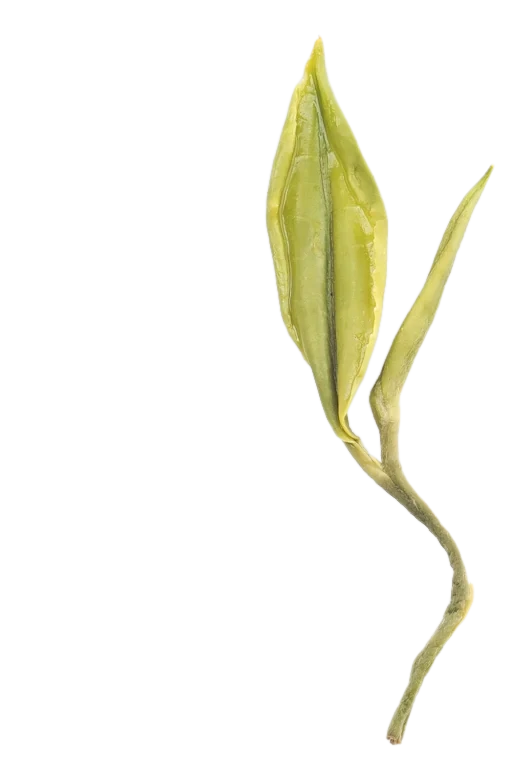
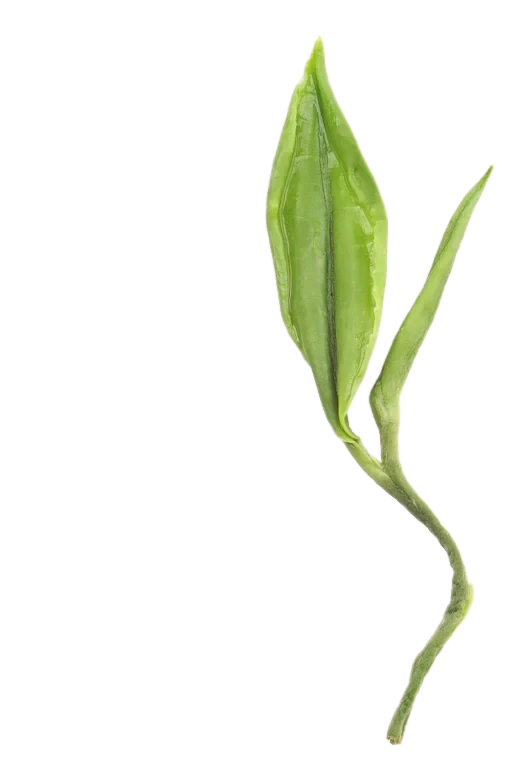
Sejak leaves graded to natural green; steeper glass re-rendered at 2x
The steeped-leaf shots (PDP gallery, shop shelf, collection single)
shift from washed yellow-chartreuse to natural olive green: yellow
band hue-rotated toward green, highlights pulled down, speculars
softened, weighted so stems and paper stay put. THE GLASS is re-cut
from a 2x upscaled source (666x886, was 332x442) so the stage stops
upscaling it. Changed gear images renamed (steeper-vessel,
steeper-filter-detail) to defeat stale browser caches.

diff --git a/koyo-site/gear/simple-steeper.html b/koyo-site/gear/simple-steeper.html
@@ -103,11 +103,11 @@
             <button class="tea-thumb is-active" data-src="../assets/img/gear/steeper-liquor.webp">
               <img src="../assets/img/gear/steeper-liquor.webp" alt="" loading="lazy" /><span class="mono">THE STEEPER</span>
             </button>
-            <button class="tea-thumb" data-src="../assets/img/gear/steeper-glass.webp">
-              <img src="../assets/img/gear/steeper-glass.webp" alt="" loading="lazy" /><span class="mono">THE GLASS</span>
+            <button class="tea-thumb" data-src="../assets/img/gear/steeper-vessel.webp">
+              <img src="../assets/img/gear/steeper-vessel.webp" alt="" loading="lazy" /><span class="mono">THE GLASS</span>
             </button>
-            <button class="tea-thumb" data-src="../assets/img/gear/steeper-filter.webp">
-              <img src="../assets/img/gear/steeper-filter.webp" alt="" loading="lazy" /><span class="mono">THE FILTER</span>
+            <button class="tea-thumb" data-src="../assets/img/gear/steeper-filter-detail.webp">
+              <img src="../assets/img/gear/steeper-filter-detail.webp" alt="" loading="lazy" /><span class="mono">THE FILTER</span>
             </button>
             <button class="tea-thumb" data-src="../assets/img/gear/steeper-pour.webp">
               <img src="../assets/img/gear/steeper-pour.webp" alt="" loading="lazy" /><span class="mono">THE POUR</span>

diff --git a/build-gear-pages.py b/build-gear-pages.py
@@ -33,8 +33,8 @@ GEAR = {
         ],
         "gallery": [
             ("steeper-liquor.webp", "THE STEEPER"),
-            ("steeper-glass.webp", "THE GLASS"),
-            ("steeper-filter.webp", "THE FILTER"),
+            ("steeper-vessel.webp", "THE GLASS"),
+            ("steeper-filter-detail.webp", "THE FILTER"),
             ("steeper-pour.webp", "THE POUR"),
         ],
     },
